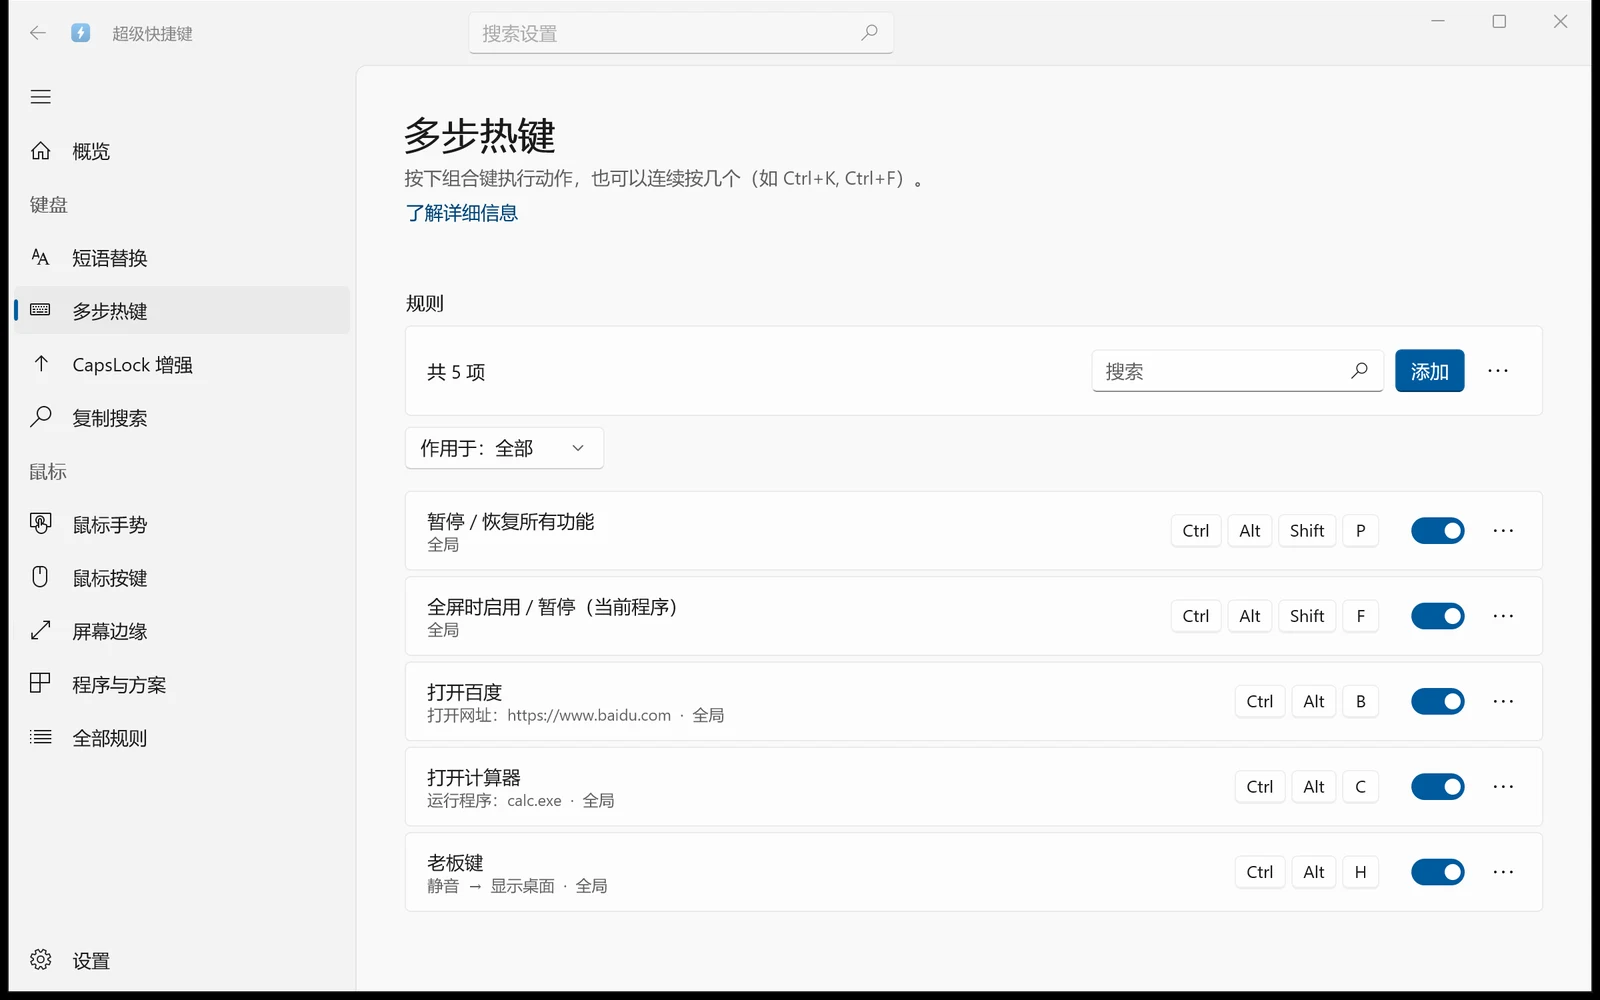
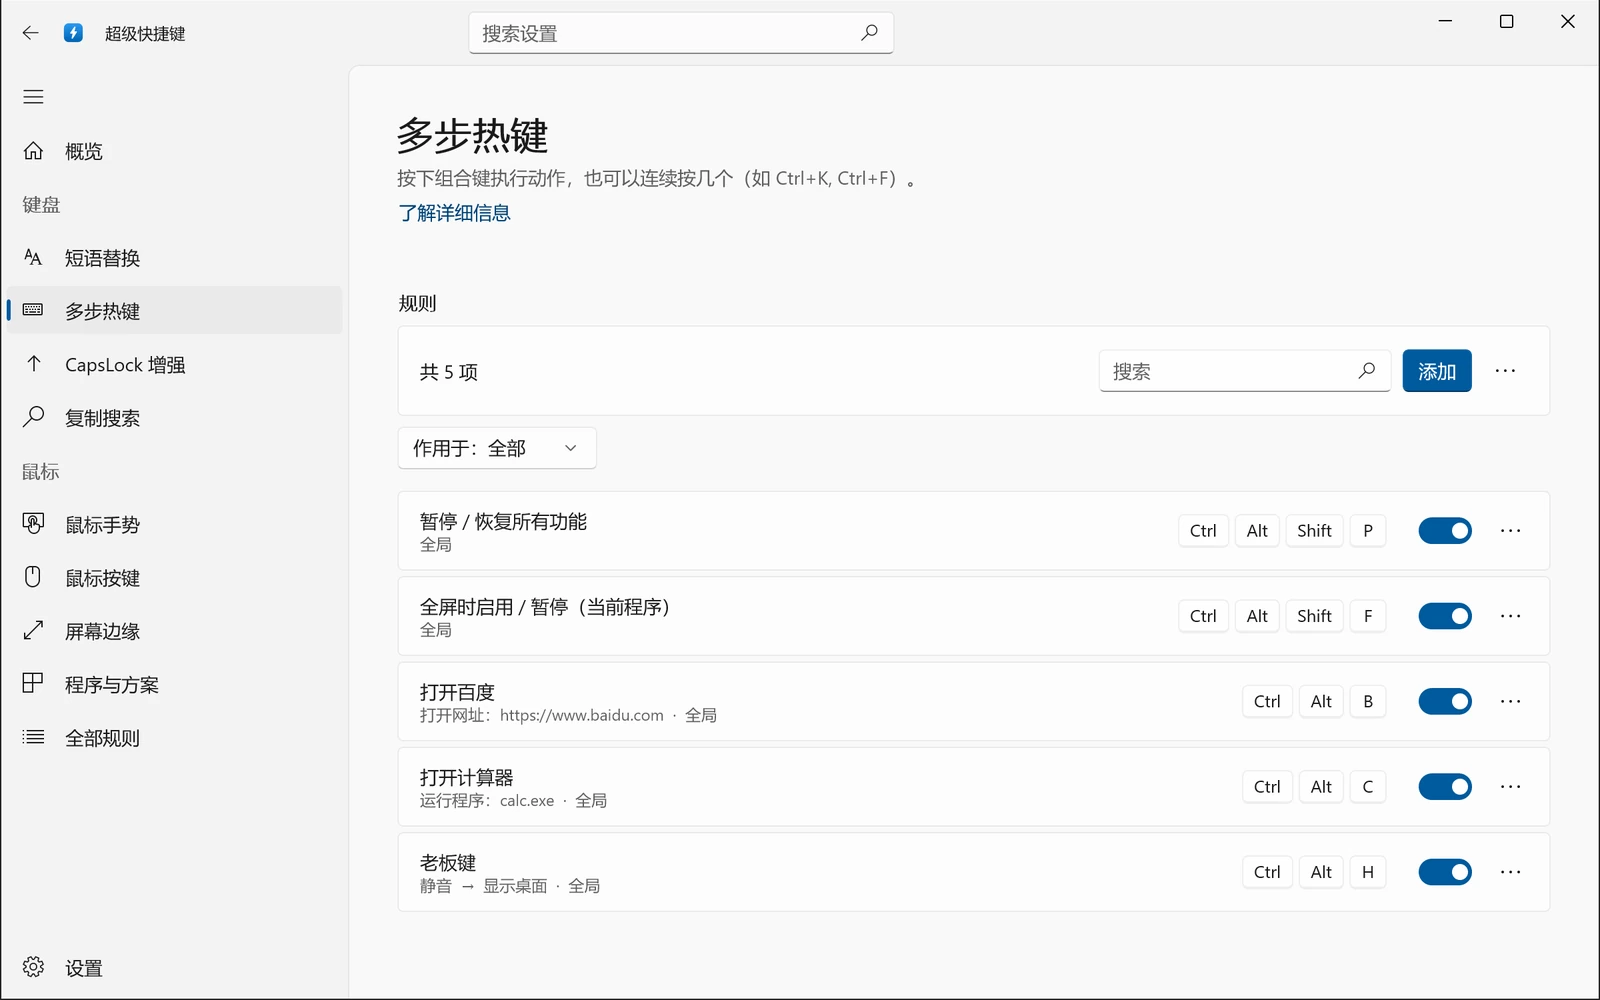
使用教程：软件左侧每一项一篇（开始、键盘、鼠标、管理四组，两层地址），右上角叫“使用教程”；首页每个功能加“查看详细教程”；界面预览加屏幕边缘，截图换成没有黑边的新图；404 页面改成中文

diff --git a/docs/.vitepress/theme/home.ts b/docs/.vitepress/theme/home.ts
@@ -19,6 +19,7 @@ export interface Feature {
   examples: ExamplePart[][]  // 具体例子，一行一个
   status?: FeatureStatus  // 默认开没开、在哪打开：看完这一块就能用，不用再去翻文档
   media: Media
+  doc: string            // 使用教程里这个功能的那一页（下面的“查看详细教程”）
 }
 
 export interface FeatureStatus {
@@ -62,12 +63,13 @@ export const advantages: Advantage[] = [
   // { icon: 'editions', title: '三种版本', text: '功能一样，任选' },
 ]
 
-/** 首屏的界面截图：上面一排标签，点哪个换哪张（图在 docs/public/screens/，16:10） */
+/** 首屏的界面截图：上面一排标签，点哪个换哪张（图在 docs/public/screens/，16:10；用 superkey-media 的 screenshot/shot-home.ps1 重新截） */
 export const screens = [
   { id: 'overview', label: '概览', src: '/screens/overview.webp', alt: '概览：运行状态、常用开关、我的快捷方式' },
   { id: 'hotkey', label: '快捷键', src: '/screens/hotkey.webp', alt: '快捷键列表：每一条一张卡片，可以单独开关' },
   { id: 'edit', label: '编辑', src: '/screens/hotkey-edit.webp', alt: '编辑：录入组合键，按顺序添加几个动作' },
   { id: 'gesture', label: '鼠标手势', src: '/screens/gesture.webp', alt: '鼠标手势：选项和自带的手势' },
+  { id: 'edge', label: '屏幕边缘', src: '/screens/edge.webp', alt: '屏幕边缘：鼠标放到屏幕边上或角落，滚一下就执行' },
 ]
 
 /** 先只发布 WinUI 版：其他版本（Win32、Tauri）的按钮和“选择版本”一块先不显示；以后发布时改成 true */
@@ -91,6 +93,7 @@ export const features: Feature[] = [
   // 例子只写装好就能用的；要自己设的写成“自己设…”
   {
     id: 'hotkey',
+    doc: '/keyboard/hotkey',
     name: '快捷键',
     title: '一个快捷键，打开常用的网站和软件',
     text: '自己设一个组合键，按一下就打开。',
@@ -104,6 +107,7 @@ export const features: Feature[] = [
   },
   {
     id: 'gesture',
+    doc: '/mouse/gesture',
     name: '鼠标手势 · 浏览器和所有软件',
     title: '按住右键，划一下',
     text: '后退、刷新、关标签页，不用找按钮。',
@@ -120,6 +124,7 @@ export const features: Feature[] = [
   },
   {
     id: 'gestureMedia',
+    doc: '/mouse/gesture',
     name: '鼠标手势 · 音乐和视频',
     title: '听歌时，划一下就切歌',
     text: '在播放器里，同样的手势自动换成播放控制。',
@@ -134,6 +139,7 @@ export const features: Feature[] = [
   },
   {
     id: 'mediaGlobal',
+    doc: '/mouse/buttons',
     name: '后台媒体控制',
     title: '不切窗口，控制后台的音乐',
     text: '一边工作一边听歌，在任何软件里都能切歌、调音量。',
@@ -148,6 +154,7 @@ export const features: Feature[] = [
   },
   {
     id: 'edge',
+    doc: '/mouse/edge',
     name: '屏幕边缘',
     title: '鼠标放到屏幕边上，滚一下',
     text: '不用找音量图标，不用开设置。',
@@ -160,6 +167,7 @@ export const features: Feature[] = [
   },
   {
     id: 'copySearch',
+    doc: '/keyboard/copy-search',
     name: '复制搜索',
     title: '复制完，直接搜',
     text: '不用开浏览器、不用粘贴。',
@@ -168,6 +176,7 @@ export const features: Feature[] = [
   },
   {
     id: 'caps',
+    doc: '/keyboard/capslock',
     name: 'CapsLock 增强',
     title: '手不离主键区',
     text: '按住 CapsLock，字母键变成方向、翻页、删除。单按照样切大小写。',
@@ -176,6 +185,7 @@ export const features: Feature[] = [
   },
   {
     id: 'macro',
+    doc: '/keyboard/hotkey',
     name: '多步按键',
     title: '一个快捷键，连着做好几件事',
     text: '按键、打字、打开软件、窗口操作，按顺序执行。',
@@ -187,6 +197,7 @@ export const features: Feature[] = [
   },
   {
     id: 'phrase',
+    doc: '/keyboard/phrase',
     name: '短语替换',
     title: '打几个字母，出来一整段',
     text: '邮箱、地址、常用回复，设一次，到处能用。',

diff --git a/docs/.vitepress/theme/HomePage.vue b/docs/.vitepress/theme/HomePage.vue
@@ -86,6 +86,8 @@ const icons: Record<string, string[]> = {
             <strong>{{ f.status.on ? '装好就能用' : '默认关闭' }}</strong>
             <span>{{ f.status.text }}</span>
           </p>
+          <!-- 首页只讲最常用的几条：末尾留一个不显眼的入口，想看全部规则、怎么改的再点进去 -->
+          <a class="feature-doc" :href="withBase(f.doc)">查看详细教程 →</a>
         </div>
         <div class="feature-media">
           <video v-if="isVideo(f.media)" :src="withBase(f.media.src!)" :poster="f.media.poster && withBase(f.media.poster)"
@@ -378,6 +380,17 @@ const icons: Record<string, string[]> = {
 .btn-alt:hover {
   background: var(--vp-c-default-2);
   color: var(--vp-c-text-1);
+}
+/* 查看详细教程：普通的小字链接，不抢正文 */
+.feature-doc {
+  display: inline-block;
+  margin-top: 16px;
+  font-size: 14px;
+  color: var(--vp-c-brand-1);
+  text-decoration: none;
+}
+.feature-doc:hover {
+  text-decoration: underline;
 }
 
 /* ---- 功能演示 ---- */

diff --git a/docs/start/install.md b/docs/start/install.md
@@ -1,0 +1,36 @@
+# 安装与开始使用
+
+超级快捷键是一款开箱即用的 Windows 效率工具，用快捷键、鼠标手势、屏幕边缘等方式，让常用操作一步完成。
+支持 64 位的 Windows 10（1809 或更新）和 Windows 11。
+
+## 下载安装
+
+到 [下载](/download) 页下载安装版或免安装版：
+
+- **安装版**：双击安装，不需要管理员权限。
+- **免安装版**：解压后得到一个 `SuperKey` 文件夹，双击里面的 `SuperKey.Core.exe`。
+
+## 第一次运行
+
+1. 运行后，程序常驻在屏幕右下角的托盘里（闪电图标），左键点它打开主窗口。
+2. 装好就能用：鼠标手势、短语替换、CapsLock 增强等都已经带了常用的规则，先在 [概览](/start/overview) 里看看都有什么。
+3. 在主窗口里打开、关闭各个功能，修改规则；改动会立即保存并生效。
+
+## 各个功能
+
+| 功能 | 一句话 |
+|---|---|
+| [短语替换](/keyboard/phrase) | 打几个字母，出来一整段 |
+| [多步热键](/keyboard/hotkey) | 一个快捷键打开网站、软件，或者连着做好几件事 |
+| [CapsLock 增强](/keyboard/capslock) | 按住 CapsLock，字母键变成方向、翻页、删除 |
+| [复制搜索](/keyboard/copy-search) | 选中文字，连按两次 Ctrl+C，再按一个键就搜 |
+| [鼠标手势](/mouse/gesture) | 按住右键划一下：后退、刷新、关标签页 |
+| [鼠标按键](/mouse/buttons) | 侧键、右键加滚轮也能执行动作 |
+| [屏幕边缘](/mouse/edge) | 鼠标放到屏幕边上滚一下：调音量、调亮度 |
+| [程序与方案](/manage/apps) | 给某个软件单独设置；为一类软件准备好的方案 |
+| [全部规则](/manage/rules) | 所有规则都在这里，看哪些在生效 |
+| [设置](/manage/settings) | 外观、暂停与禁用、同步、诊断 |
+
+## 遇到问题
+
+欢迎通过 [问题反馈](https://github.com/superkeyapp/superkey-release/issues) 告诉我们。

diff --git a/docs/mouse/gesture.md b/docs/mouse/gesture.md
@@ -1,0 +1,25 @@
+# 鼠标手势
+
+按住鼠标右键拖动，画出方向，松开就执行。在所有软件里都能用。
+
+## 常用手势
+
+| 手势（按住右键划） | 作用 |
+|---|---|
+| ← / → | 后退 / 前进 |
+| ↑↓ | 刷新网页 |
+| ↓→ | 关闭标签页 |
+| ←↑ | 恢复刚关的标签页 |
+| ↓← | 最小化窗口 |
+
+还有回到顶部、切换标签页等，都能在“鼠标手势”页里修改。
+
+## 在音乐和视频播放器里
+
+同样的手势在播放器里自动换成播放控制：← / → 上一首 / 下一首，↑ / ↓ 音量加 / 减，↓↑ 播放 / 暂停。
+支持网易云音乐、QQ 音乐、酷狗、酷我、汽水音乐、PotPlayer、QQ 影音、迅雷影音、VLC 等。
+
+## 选项
+
+- **显示轨迹和提示**：画的时候显示轨迹和还能画出的手势。
+- **停住不动就取消**：画的过程中停住超过设定时间就取消；任何时候按 `Esc` 也能取消。

diff --git a/docs/guide/start.md b/docs/guide/start.md
@@ -1,16 +1,12 @@
+---
+# 旧地址（1.0.0 版软件里的“使用文档”指向这里）：自动跳到新的地址
+head:
+  - - meta
+    - http-equiv: refresh
+      content: 0; url=/start/install
+search: false
+---
+
 # 安装与开始使用
 
-超级快捷键是一个 Windows 效率工具，支持 64 位 Windows 10（1607 及以上）和 Windows 11。
-
-## 下载
-
-安装包和免安装版会在正式发布后放到这里。
-
-## 第一次运行
-
-1. 运行后，程序常驻在屏幕右下角的托盘里（闪电图标），左键点它打开主窗口。
-2. 在主窗口里打开、关闭各个功能，修改规则；改动会立即保存并生效。
-
-## 遇到问题
-
-欢迎通过 [问题反馈](https://github.com/superkeyapp/superkey-release/issues) 告诉我们。
+这一页已经移到 [安装与开始使用](/start/install)。

diff --git a/docs/keyboard/hotkey.md b/docs/keyboard/hotkey.md
@@ -1,0 +1,19 @@
+# 多步热键
+
+按下一个组合键，执行设置好的动作：打开网站、打开软件、按键、打字、窗口操作……一个快捷键也可以按顺序做好几件事。
+也可以连续按几个组合键（如 `Ctrl+K`, `Ctrl+F`），快捷键不够用时很方便。
+
+## 自带的快捷键
+
+| 快捷键 | 作用 |
+|---|---|
+| `Ctrl+Alt+Shift+P` | 暂停 / 恢复所有功能 |
+| `Ctrl+Alt+Shift+F` | 在全屏程序（游戏、全屏视频）里临时启用 / 暂停 |
+
+## 例子
+
+- `Ctrl+Alt+B` → 打开百度
+- `Ctrl+Alt+X` → 打开微信
+- “老板键”`Ctrl+Alt+H` → 静音，再显示桌面
+
+在“多步热键”页点“添加”，按下组合键，再添加要做的动作。“更多选项”里可以设置只在某些软件里生效。

diff --git a/docs/manage/apps.md b/docs/manage/apps.md
@@ -1,0 +1,13 @@
+# 程序与方案
+
+## 给某个软件单独设置
+
+同一个手势、快捷键，在不同软件里可以做不同的事。在“程序与方案”里添加一个软件，就能给它单独设置各个功能。
+
+## 方案
+
+方案是为某一类软件准备好的一套设置，分成浏览器、影音播放、看图、设计绘图、视频剪辑等几类。打开方案，就能在对应的软件里用上。
+
+- 方案可以“查看和修改”；改乱了可以“恢复默认”。
+- 想在方案的基础上随意改，可以“复制为自定义”，以后不再跟着新版本的方案更新。
+- **后台媒体控制**：一边工作一边听歌，在任何软件里都能切歌、调音量（见 [鼠标按键](/mouse/buttons)），默认没有打开。

diff --git a/docs/start/overview.md b/docs/start/overview.md
@@ -1,0 +1,10 @@
+# 概览
+
+打开主窗口先看到的就是概览，一眼看清软件现在的状态。
+
+- **运行状态**：快捷键、手势是否在生效；点“暂停”可以临时停掉全部功能，再点一次恢复（也可以按 `Ctrl+Alt+Shift+P`）。
+- **问题检查**：规则有冲突或者不生效时，这里会提示，点进去看原因。
+- **版本**：当前版本号；“检查新版本”会打开官网的 [下载](/download) 页。
+- **常用开关**：全屏程序中自动暂停、开机启动。
+- **我的快捷方式**：你自己加的快捷键，在这里能直接看到、修改。
+- **功能**：每个功能一行，可以直接打开、关闭，或者点进去修改规则。

diff --git a/docs/manage/settings.md b/docs/manage/settings.md
@@ -1,0 +1,14 @@
+# 设置
+
+主窗口左下角的“设置”。
+
+| 分类 | 内容 |
+|---|---|
+| 常规 | 界面语言、开机启动 |
+| 外观 | 浅色、深色、跟随系统 |
+| 暂停与禁用 | 全屏程序中自动暂停（以及全屏时仍启用的程序）；禁用程序、禁用窗口：在这些程序或窗口里不触发 |
+| 同步与备份 | 同步文件夹：把配置放在网盘文件夹里，几台电脑共用；导出、导入配置 |
+| 诊断 | 日志级别、打开日志文件夹、导出诊断包（反馈问题时可以附上）；清除并退出 |
+| 关于 | 版本、官网、使用文档、问题反馈 |
+
+配置保存在本机，不联网、不上传。

diff --git a/docs/keyboard/phrase.md b/docs/keyboard/phrase.md
@@ -1,0 +1,17 @@
+# 短语替换
+
+输入一个缩写，自动替换成设置好的内容。邮箱、地址、常用回复，设一次，在哪个软件里打字都能用。
+
+## 自带的短语
+
+| 输入 | 变成 |
+|---|---|
+| `,,d` | 今天的日期，如 2026-10-20 |
+| `,,t` | 日期和时间，如 2026-10-20 14:30:05 |
+| `,,sj` | 现在的时间，如 14:30:05 |
+| `,,rq` | 中文日期，如 2026年10月20日 |
+| `,,xq` | 星期几，如 星期二 |
+
+## 自己添加
+
+在“短语替换”页点“添加”，填上缩写和要替换成的内容。缩写建议用 `,,` 开头，平时打字不会误触发。

diff --git a/docs/download.md b/docs/download.md
@@ -58,7 +58,7 @@ const releases = 'https://github.com/superkeyapp/superkey-release/releases'
 
 ## 第一次运行
 
-程序常驻在屏幕右下角的托盘里（闪电图标），左键点它打开主窗口。详见 [安装与开始使用](/guide/start)。
+程序常驻在屏幕右下角的托盘里（闪电图标），左键点它打开主窗口。详见 [安装与开始使用](/start/install)。
 
 ::: info 更多版本
 体积更小的其他版本（最小约 3 MB），敬请期待。

diff --git a/docs/mouse/buttons.md b/docs/mouse/buttons.md
@@ -1,0 +1,11 @@
+# 鼠标按键
+
+鼠标侧键可以单独用，也可以配合 `Ctrl`、`Shift` 使用；按住右键时滚动滚轮，也能执行动作。
+
+## 例子
+
+- 按住右键 + 滚轮 → 调音量
+- 按住右键 + 按滚轮 → 播放 / 暂停
+- 按住右键 + 侧键 → 上一首 / 下一首
+
+上面这几个属于“后台媒体控制”，在 [程序与方案](/manage/apps) 里打开后生效。其他的可以在“鼠标按键”页里自己添加。
